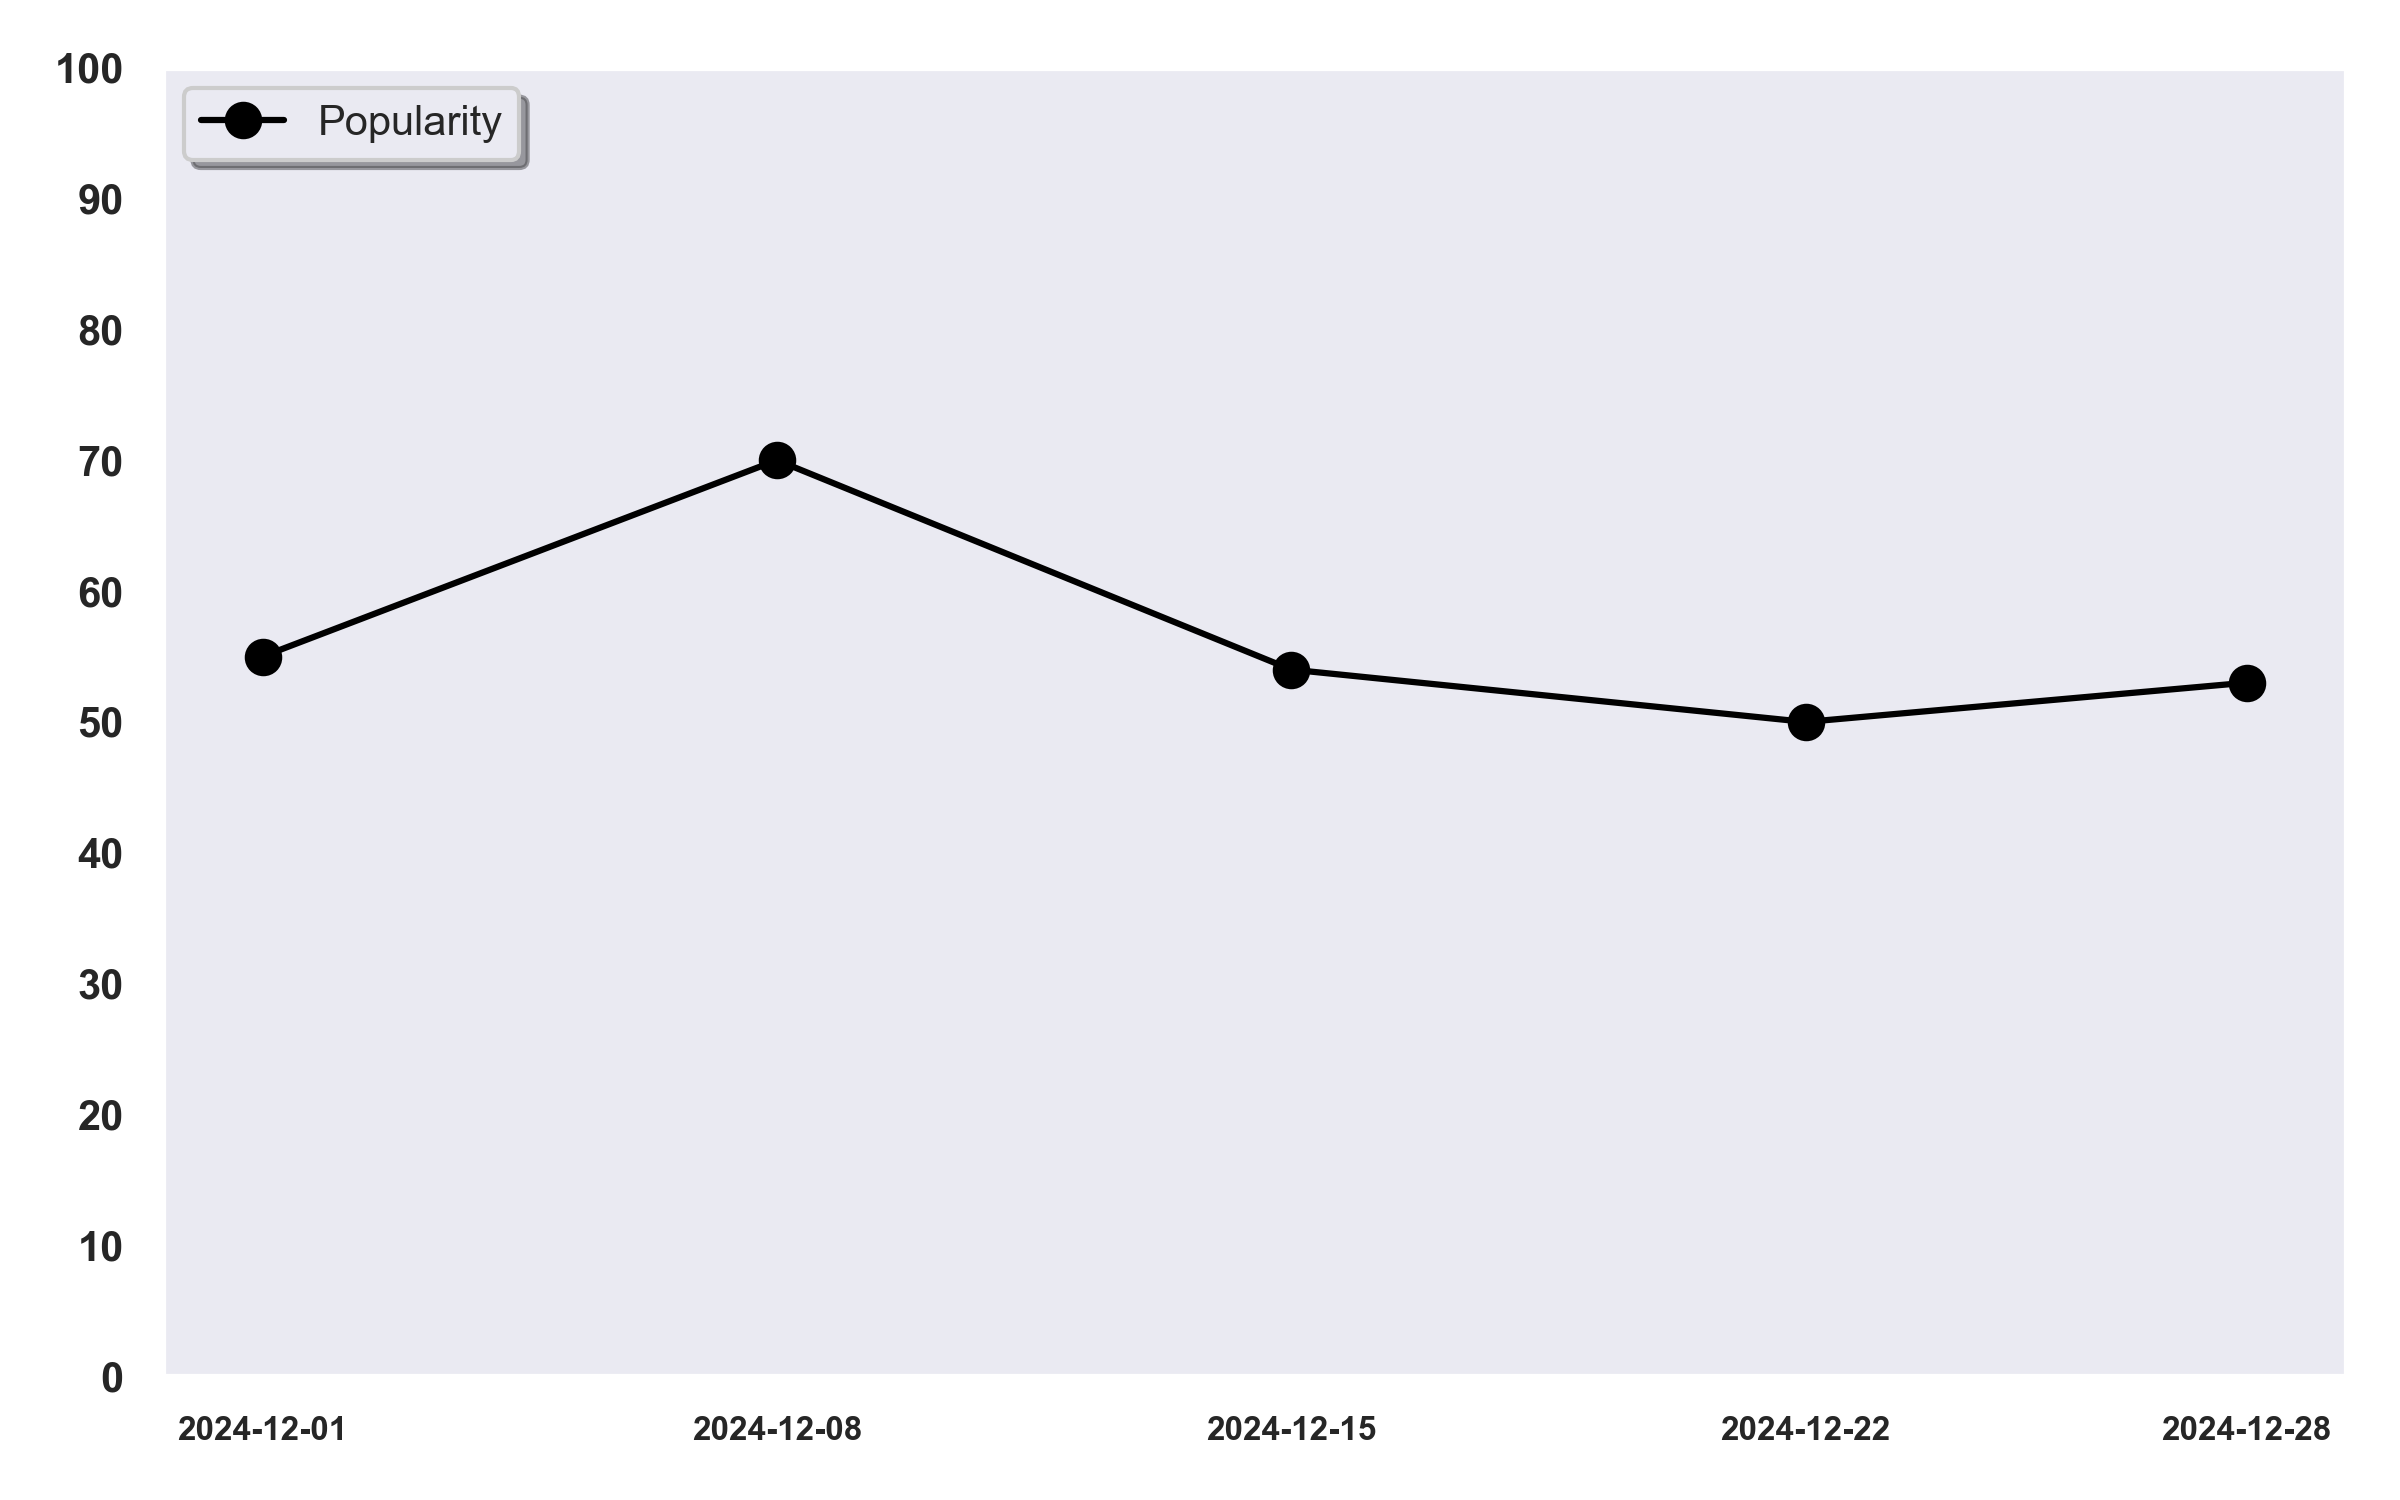
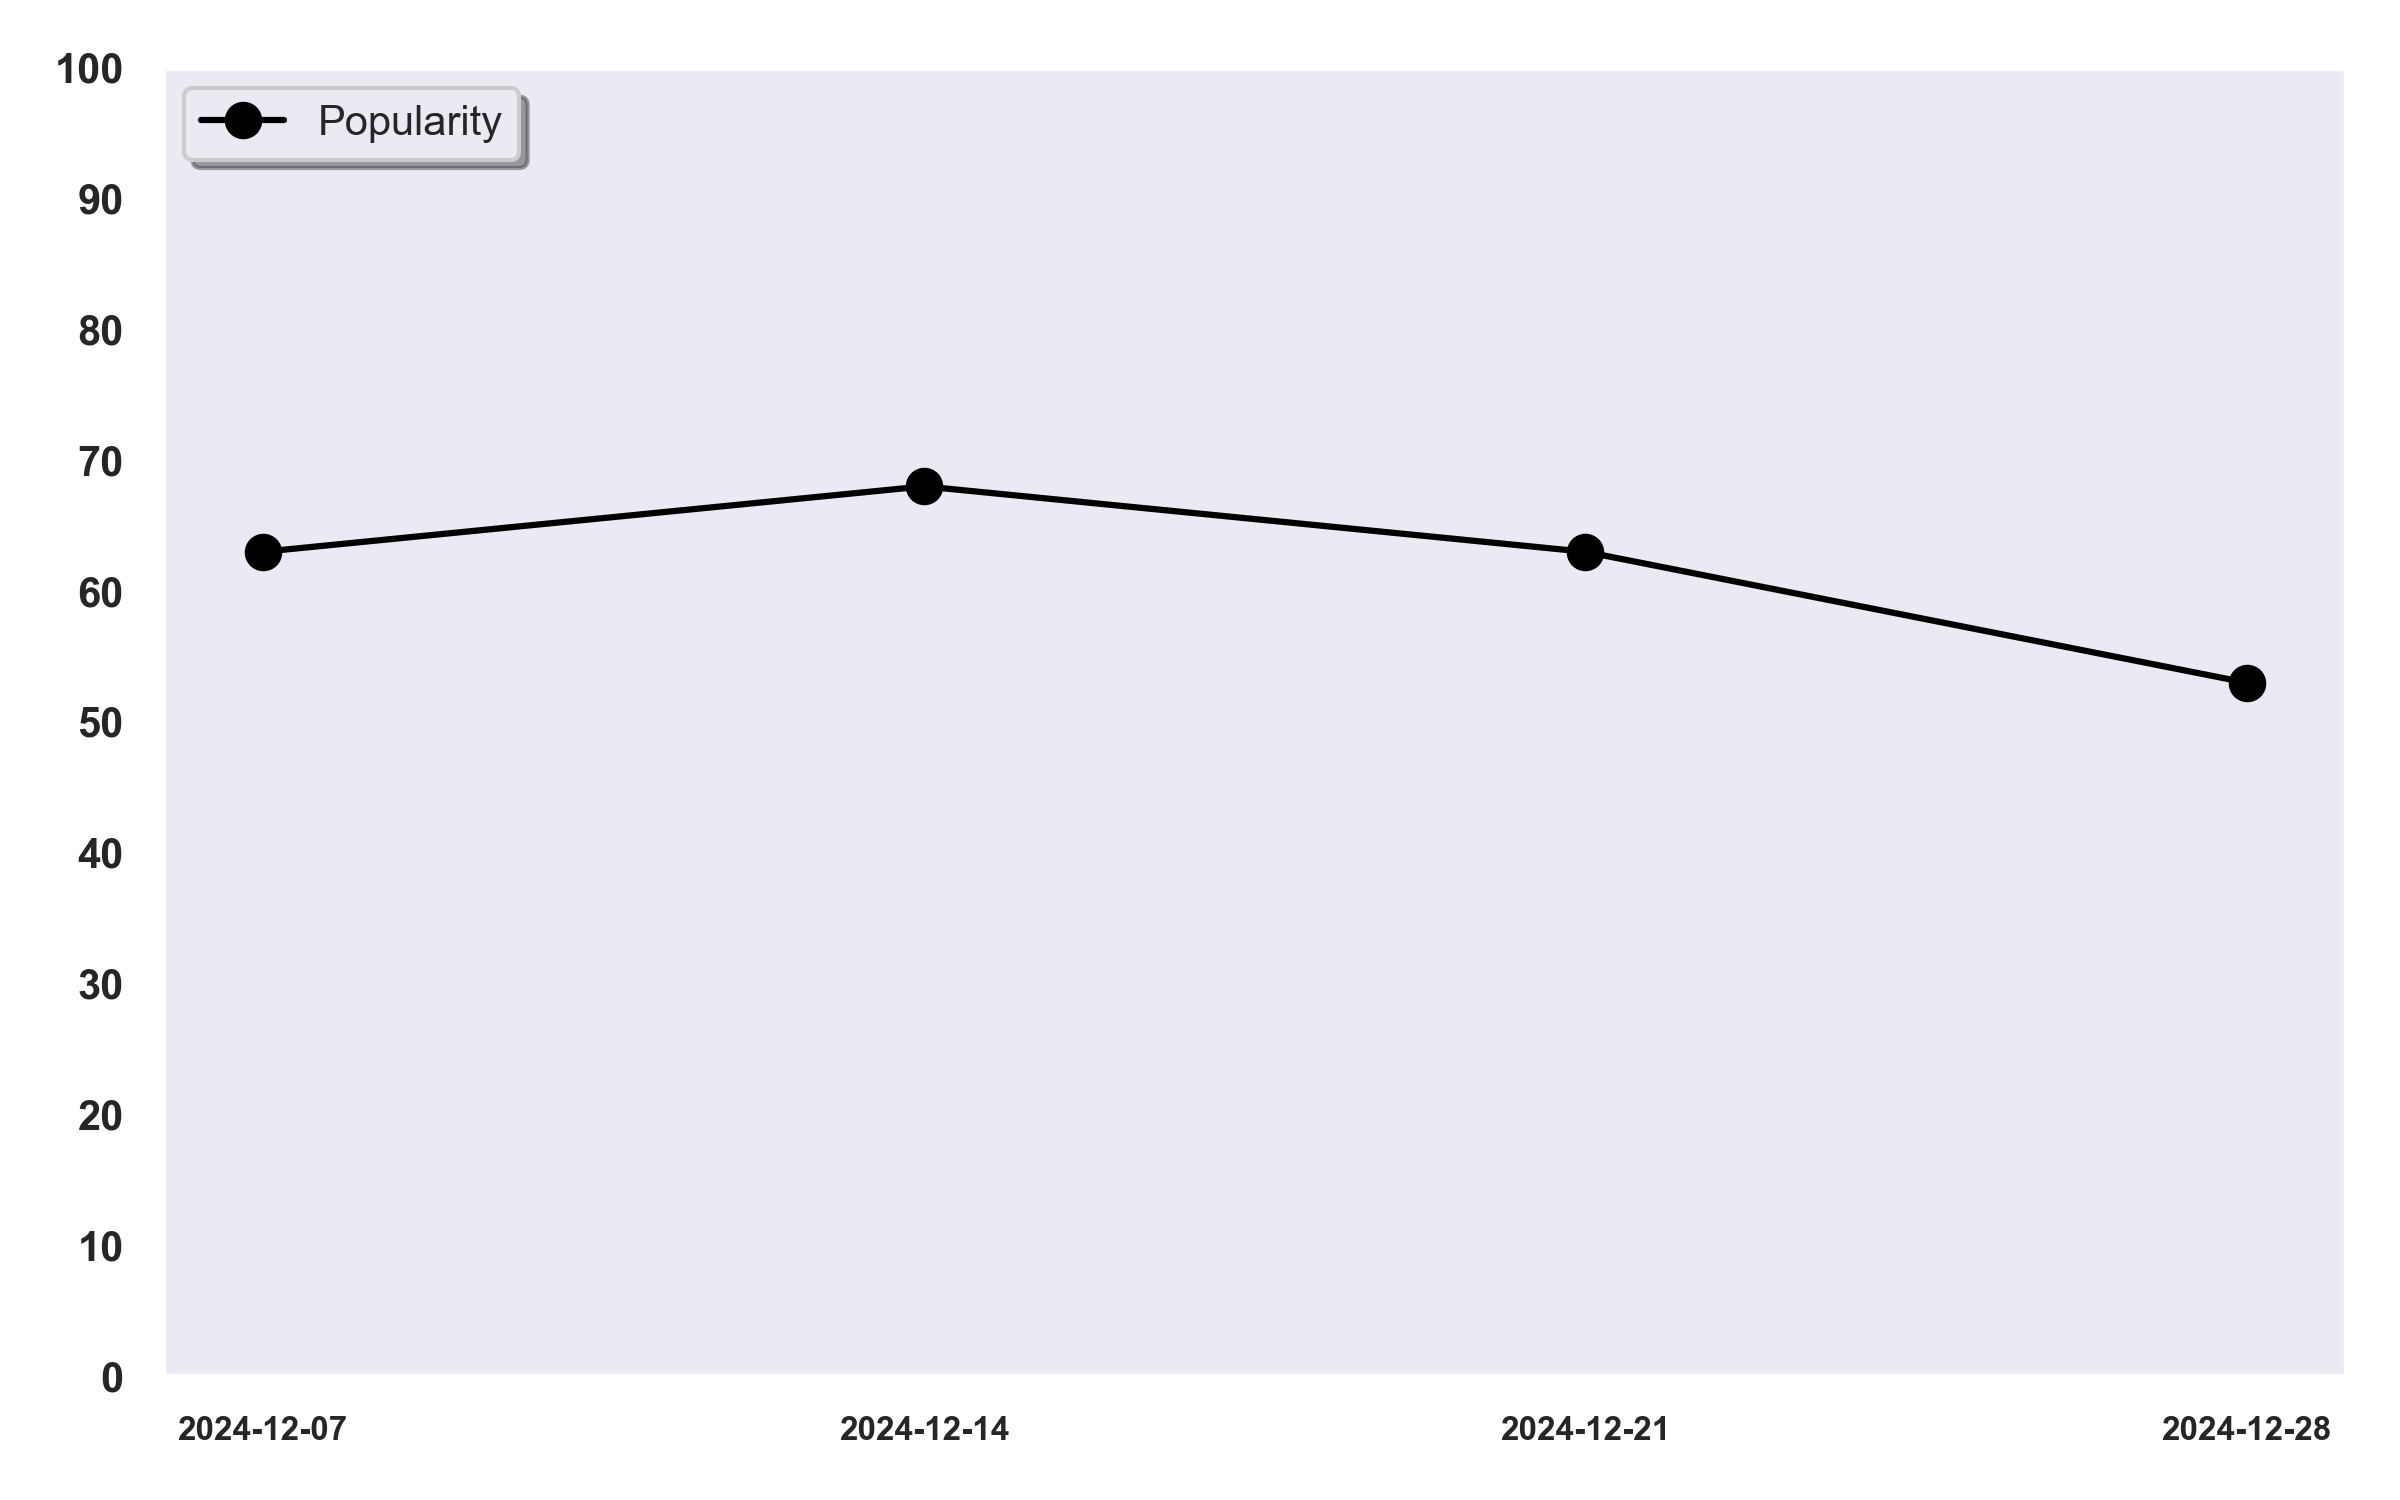
[인기도 마커 표시]오래된 날짜부터 7일 간격으로 표시 -> 최근 날짜 기준으로 7일 간격으로 표시

diff --git a/flask/line_chart/line_chart2.py b/flask/line_chart/line_chart2.py
@@ -23,18 +23,26 @@ data = pd.DataFrame(data)
 # 'date' 컬럼을 datetime 타입으로 변환
 data['date'] = pd.to_datetime(data['date'])
 
+# 마커를 표시할 위치 계산 (최근 날짜부터 7일 간격)
+markevery = list(reversed(range(len(data) - 1, -1, -7)))
+
+# 마커를 표시한 기간 내 데이터만 사용
+last_marker_date = data['date'].iloc[markevery[0]]
+filtered_data = data[data['date'] >= last_marker_date]
+
+# 필터링된 데이터에 맞춰 새로운 마커 위치 계산
+new_markevery = list(range(len(filtered_data) - 1, -1, -7))
+
 # X축과 Y축 데이터 추출
-x = np.arange(len(data))  # 날짜를 숫자로 변환
-y = data['votes'].values
+x = np.arange(len(filtered_data))  # 날짜를 숫자로 변환
+y = filtered_data['votes'].values
+
+# X축과 Y축 데이터 추출 (정상적으로 날짜 데이터를 인덱스로 사용)
+x = np.arange(len(filtered_data))  # 날짜를 숫자로 변환한 값
 
 # 곡선 보간
 x_smooth = np.linspace(x.min(), x.max(), 300)
-y_smooth = make_interp_spline(x, y)(x_smooth)
-
-# 마커를 표시할 위치 계산 (7일 간격 + 마지막 데이터 포함)
-markevery = list(range(0, len(data), 7))  # 7일 간격으로 표시
-if len(data) - 1 not in markevery:       # 마지막 데이터 포함
-    markevery.append(len(data) - 1)
+y_smooth = make_interp_spline(x, y, bc_type='clamped')(x_smooth)
 
 # 그래프 크기 조정
 plt.figure(figsize=(8, 5))
@@ -43,14 +51,14 @@ plt.figure(figsize=(8, 5))
 plt.plot(x_smooth, y_smooth, color='black', label='Popularity')
 
 # 마커 추가
-plt.scatter(markevery, data['votes'].iloc[markevery], color='black', s=50, zorder=5)
+plt.scatter(new_markevery, filtered_data['votes'].iloc[new_markevery], color='black', s=50, zorder=5)
 
 # y축 범위를 0에서 100으로 설정
 plt.ylim(0, 100)
 
 # x축 눈금을 마커 위치에 해당하는 날짜로 설정
-plt.gca().set_xticks(markevery)  # 마커 위치의 날짜만 눈금으로 설정
-plt.gca().set_xticklabels(data['date'].iloc[markevery].dt.strftime('%Y-%m-%d'), ha='right')
+plt.gca().set_xticks(new_markevery)  # 마커 위치의 날짜만 눈금으로 설정
+plt.gca().set_xticklabels(filtered_data['date'].iloc[new_markevery].dt.strftime('%Y-%m-%d'), ha='right')
 
 # x, y축축 및 폰트 크기
 plt.xticks(fontsize=8, fontweight='bold')

diff --git a/flask/line_chart/line_chart3.py b/flask/line_chart/line_chart3.py
@@ -22,22 +22,27 @@ data = pd.DataFrame(data)
 # 'date' 컬럼을 datetime 타입으로 변환
 data['date'] = pd.to_datetime(data['date'])
 
-# 마커를 표시할 위치 계산 (7일 간격 + 마지막 데이터 포함)
-markevery = list(range(0, len(data), 7))  # 7일 간격으로 표시
-if len(data) - 1 not in markevery:       # 마지막 데이터 포함
-    markevery.append(len(data) - 1)
+# 마커를 표시할 위치 계산 (최근 날짜부터 7일 간격)
+markevery = list(reversed(range(len(data) - 1, -1, -7)))
+
+# 마커를 표시한 기간 내 데이터만 사용
+last_marker_date = data['date'].iloc[markevery[0]]
+filtered_data = data[data['date'] >= last_marker_date]
+
+# 필터링된 데이터에 맞춰 새로운 마커 위치 계산
+new_markevery = list(range(len(filtered_data) - 1, -1, -7))
 
 # 그래프 크기 조정
 plt.figure(figsize=(8, 5))
 
-# 데이터 그래프 (마커를 7일마다 표시)
-plt.plot(data['date'], data['votes'], color='black', marker='o', markersize=8, label='Popularity', markevery=markevery)
+# 데이터 그래프
+plt.plot(filtered_data['date'], filtered_data['votes'], color='black', marker='o', markersize=8, label='Popularity', markevery=new_markevery)
 
 # y축 범위를 0에서 100으로 설정
 plt.ylim(0, 100)
 
 # x축 눈금을 마커 위치에 해당하는 날짜로 설정
-plt.gca().set_xticks(data['date'].iloc[markevery])  # 마커 위치의 날짜만 눈금으로 설정
+plt.gca().set_xticks(filtered_data['date'].iloc[new_markevery])  # 마커 위치의 날짜만 눈금으로 설정
 plt.gca().xaxis.set_major_formatter(DateFormatter('%Y-%m-%d'))  # 날짜 포맷 설정
 
 # x, y축 폰트 크기

diff --git a/flask/line_chart/line_chart.py b/flask/line_chart/line_chart.py
@@ -22,8 +22,8 @@ data = pd.DataFrame(data)
 # 'date' 컬럼을 datetime 타입으로 변환
 data['date'] = pd.to_datetime(data['date'])
 
-# 매주(7일 간격) 데이터, 마지막 데이터 추출
-selected_data = data.iloc[list(range(0, len(data), 7)) + [len(data) - 1]]
+# 최근 인기도부터 7일 간격으로 인기도 저장
+selected_data = data.iloc[list(range(len(data) - 1, -1, -7))]
 
 # 그래프 크기 조정
 plt.figure(figsize=(8, 5))
